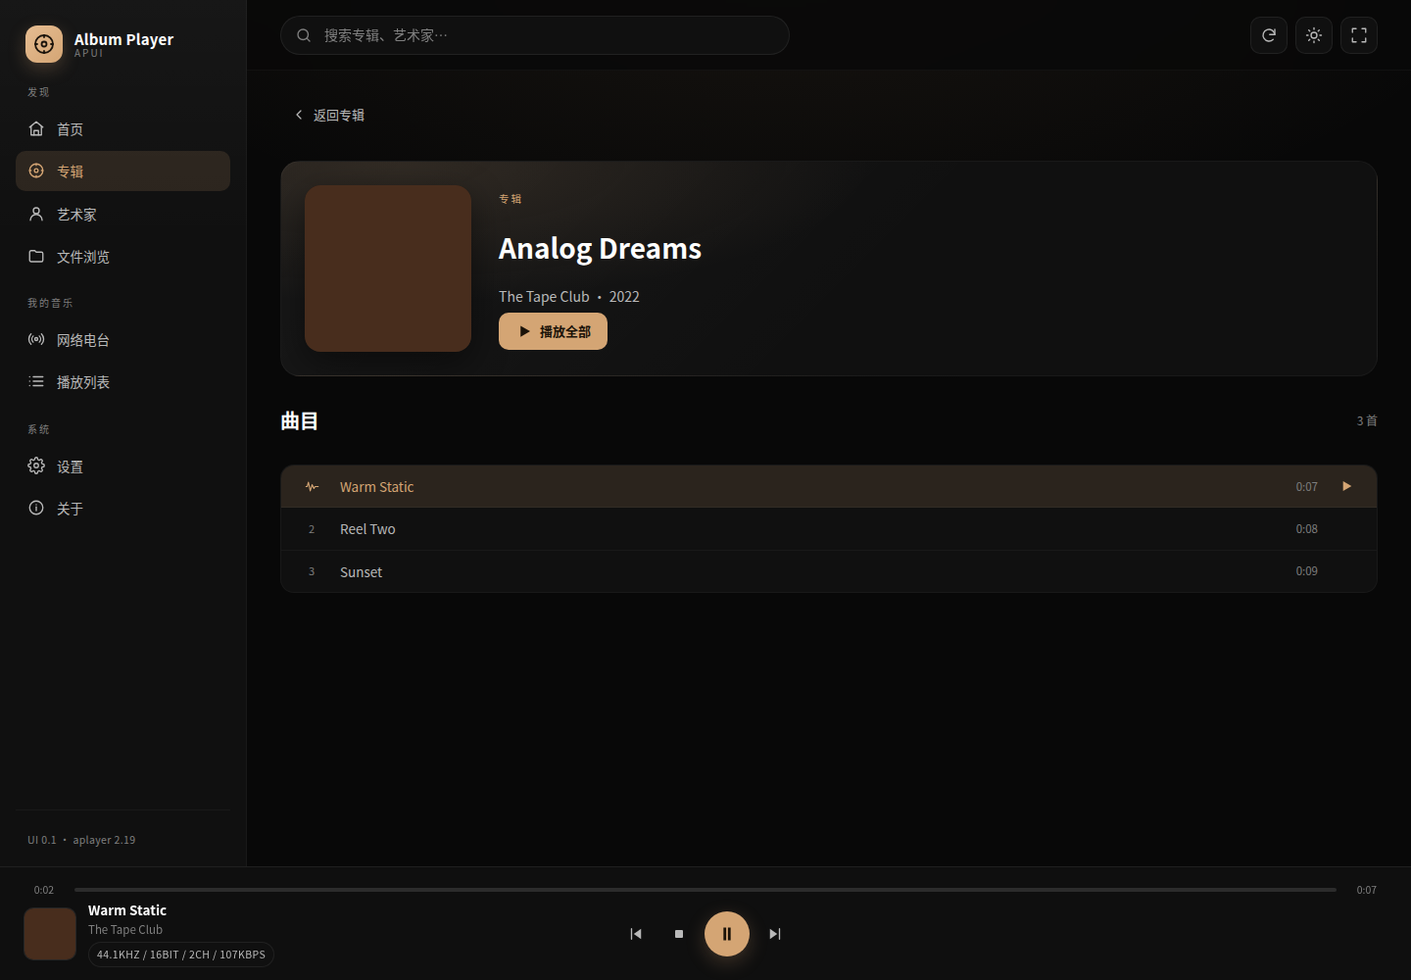
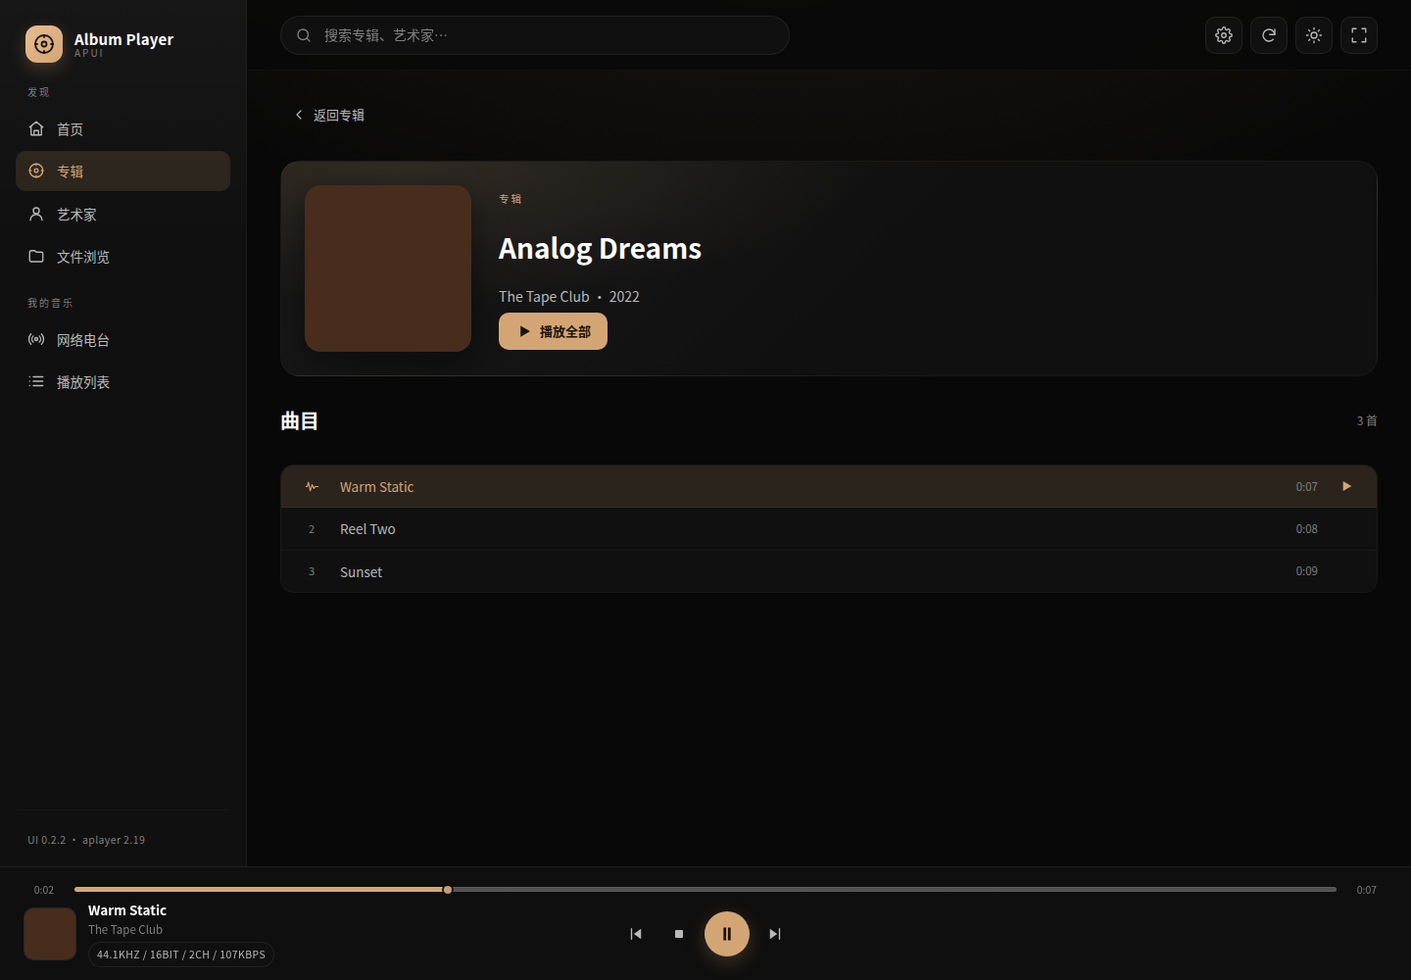
Release 0.2.3: single save action row and visible playback progress

diff --git a/web/src/views/settings.ts b/web/src/views/settings.ts
@@ -350,11 +350,7 @@ export function renderSettings(view: HTMLElement, s: AppState): void {
   const header = el('div', { class: 'page-header settings-header' }, [
     el('div', {}, [
       el('h1', { text: '设置' }),
-      el('p', { class: 'subtitle', text: 'Album Player 设置 · 修改会写入 aplayer 配置；保存前做完整合并与校验' }),
-    ]),
-    el('div', { class: 'page-actions' }, [
-      el('button', { class: 'btn-secondary', type: 'button', onclick: () => store.exportConfig() }, [svgIcon('external', 16), el('span', { text: '导出配置' })]),
-      el('button', { class: 'btn-secondary', type: 'button', onclick: () => triggerImport() }, [svgIcon('folder', 16), el('span', { text: '导入配置' })]),
+      el('p', { class: 'subtitle', text: 'Album Player 设置 · 保存/导入/导出均作用于完整配置（全部可写字段），不是当前分页' }),
     ]),
   ]);
   body.append(header);
@@ -364,13 +360,21 @@ export function renderSettings(view: HTMLElement, s: AppState): void {
     if (Object.keys(patch).length) void store.saveSettings(patch);
   };
 
+  const actions = (canSave: boolean): HTMLElement => el('div', { class: 'settings-actions' }, [
+    el('span', { class: 'settings-action-note', text: '完整配置操作：导入/导出/保存覆盖全部分页的可写字段。' }),
+    el('div', { class: 'button-row' }, [
+      el('button', { class: 'btn-secondary', type: 'button', title: '导出完整配置（全部分页）', onclick: () => store.exportConfig() }, [svgIcon('external', 16), el('span', { text: '导出配置' })]),
+      el('button', { class: 'btn-secondary', type: 'button', title: '导入完整配置（全部分页）', onclick: () => triggerImport() }, [svgIcon('folder', 16), el('span', { text: '导入配置' })]),
+      canSave ? el('button', { class: 'btn-primary', type: 'button', onclick: save }, [svgIcon('check', 18), el('span', { text: '保存设置' })]) : '',
+    ]),
+  ]);
+
   if (activeTab === 'status') {
-    body.append(renderStatus(config, s));
+    body.append(renderStatus(config, s), actions(false));
   } else if (activeTab === 'about') {
-    body.append(renderAbout(config));
+    body.append(renderAbout(config), actions(false));
   } else if (activeTab === 'card') {
-    body.append(renderCard(config, controls, save));
-    header.querySelector('.page-actions')?.append(el('button', { class: 'btn-primary', type: 'button', onclick: save }, [svgIcon('check', 16), el('span', { text: '保存' })]));
+    body.append(renderCard(config, controls), actions(true));
   } else {
     const subs = SUB_TABS[activeTab];
     if (subs) {
@@ -399,9 +403,7 @@ export function renderSettings(view: HTMLElement, s: AppState): void {
       body.append(renderConvolverInfo(config));
     }
 
-    const saveBtn = el('button', { class: 'btn-primary save-btn', type: 'button', onclick: save }, [svgIcon('check', 18), el('span', { text: '保存设置' })]);
-    header.querySelector('.page-actions')?.append(el('button', { class: 'btn-primary', type: 'button', onclick: save }, [svgIcon('check', 16), el('span', { text: '保存' })]));
-    body.append(el('div', { class: 'save-bar' }, [saveBtn]));
+    body.append(actions(true));
   }
 
   const importInput = el('input', { type: 'file', accept: '.json,application/json', class: 'hidden' }) as HTMLInputElement;
@@ -484,14 +486,13 @@ function renderStatus(config: Config, s: AppState): HTMLElement {
   ]);
 }
 
-function renderCard(config: Config, controls: Map<string, FieldControl>, save: () => void): HTMLElement {
+function renderCard(config: Config, controls: Map<string, FieldControl>): HTMLElement {
   const asound = Array.isArray(config.asound) ? config.asound.map(String) : [];
   const cards = Array.isArray(config.cards) ? config.cards.map(String) : [];
   const options = cardsOptions(config);
   const cardSelect = select(options[0]?.value || '0', options.length ? options : [{ value: '0', label: '未检测到声卡' }]);
   cardSelect.disabled = !options.length;
   const form = renderFieldGroups('card', null, config, controls);
-  const saveBtn = el('button', { class: 'btn-primary save-btn', type: 'button', onclick: save }, [svgIcon('check', 18), el('span', { text: '保存设置' })]);
   return el('div', { class: 'settings-card-body' }, [
     el('section', { class: 'settings-section' }, [
       el('h3', { text: '声卡' }),
@@ -508,7 +509,6 @@ function renderCard(config: Config, controls: Map<string, FieldControl>, save: (
       ]),
     ]),
     form,
-    el('div', { class: 'save-bar' }, [saveBtn]),
   ]);
 }
 

diff --git a/web/src/styles.css b/web/src/styles.css
@@ -250,11 +250,11 @@ button:disabled { cursor: not-allowed; opacity: .42; }
 .player-progress { display: grid; grid-template-columns: 42px 1fr 42px; align-items: center; gap: 10px; height: 20px; }
 .player-progress .time { color: var(--text-tertiary); font-size: 10.5px; font-variant-numeric: tabular-nums; text-align: center; }
 .seek { width: 100%; height: 20px; margin: 0; appearance: none; background: transparent; cursor: pointer; }
-.seek::-webkit-slider-runnable-track { height: 4px; border-radius: 99px; background: linear-gradient(90deg, var(--accent) var(--seek, 0%), rgba(255,255,255,.12) var(--seek, 0%)); }
-.seek::-moz-range-track { height: 4px; border-radius: 99px; background: rgba(255,255,255,.12); }
-.seek::-moz-range-progress { height: 4px; border-radius: 99px; background: var(--accent); }
-.seek::-webkit-slider-thumb { appearance: none; width: 12px; height: 12px; margin-top: -4px; border-radius: 50%; background: var(--accent); border: 2px solid var(--bg-secondary); opacity: 0; transition: opacity var(--transition); }
-.seek:hover::-webkit-slider-thumb, .seek:focus-visible::-webkit-slider-thumb { opacity: 1; }
+.seek::-webkit-slider-runnable-track { height: 5px; border-radius: 99px; background: linear-gradient(90deg, var(--accent) 0%, var(--accent) var(--seek, 0%), rgba(255,255,255,.28) var(--seek, 0%), rgba(255,255,255,.28) 100%); box-shadow: inset 0 0 0 1px rgba(255,255,255,.06); }
+.seek::-moz-range-track { height: 5px; border-radius: 99px; background: rgba(255,255,255,.28); }
+.seek::-moz-range-progress { height: 5px; border-radius: 99px; background: var(--accent); }
+.seek::-webkit-slider-thumb { appearance: none; width: 12px; height: 12px; margin-top: -3.5px; border-radius: 50%; background: var(--accent); border: 2px solid var(--bg-secondary); opacity: .9; transition: opacity var(--transition), transform var(--transition); }
+.seek:hover::-webkit-slider-thumb, .seek:focus-visible::-webkit-slider-thumb { opacity: 1; transform: scale(1.1); }
 .seek::-moz-range-thumb { width: 12px; height: 12px; border-radius: 50%; background: var(--accent); border: 2px solid var(--bg-secondary); }
 .seek:disabled { opacity: .3; cursor: default; }
 .player-main { display: grid; grid-template-columns: minmax(0, 1fr) auto minmax(0, 1fr); align-items: center; gap: 20px; }
@@ -296,7 +296,7 @@ button:disabled { cursor: not-allowed; opacity: .42; }
 .now-radio { margin: 0; color: rgba(255,255,255,.65); font-size: 13px; min-height: 1px; }
 .now-progress { display: grid; grid-template-columns: 42px 1fr 42px; gap: 10px; align-items: center; }
 .now-progress .time { color: rgba(255,255,255,.5); font-size: 11px; text-align: center; }
-.now-progress .seek::-webkit-slider-runnable-track { background: linear-gradient(90deg, var(--accent) var(--seek, 0%), rgba(255,255,255,.22) var(--seek, 0%)); }
+.now-progress .seek::-webkit-slider-runnable-track { background: linear-gradient(90deg, var(--accent) 0%, var(--accent) var(--seek, 0%), rgba(255,255,255,.34) var(--seek, 0%), rgba(255,255,255,.34) 100%); }
 .now-controls { display: flex; align-items: center; gap: 12px; }
 .now-controls .control-btn { color: rgba(255,255,255,.75); width: 44px; height: 44px; }
 .now-controls .control-btn:hover { background: rgba(255,255,255,.1); color: #fff; }
@@ -503,3 +503,15 @@ button:disabled { cursor: not-allowed; opacity: .42; }
 [data-theme="light"] .input:hover { background: #fff; border-color: rgba(0,0,0,.32); }
 [data-theme="light"] .input:focus { background: #fff; }
 [data-theme="light"] .settings-section { background: #fff; }
+
+.settings-actions {
+  display: flex; align-items: center; justify-content: space-between; gap: 18px;
+  margin-top: 4px; padding: 12px 2px 2px; border-top: 1px solid var(--border-soft);
+}
+.settings-action-note { color: var(--text-tertiary); font-size: 11.5px; line-height: 1.5; max-width: 470px; }
+.settings-actions .button-row { justify-content: flex-end; flex: 0 0 auto; }
+@media (max-width: 900px) {
+  .settings-actions { align-items: flex-start; flex-direction: column; }
+  .settings-actions .button-row { width: 100%; justify-content: flex-end; }
+  .settings-action-note { max-width: none; }
+}

diff --git a/web/src/ui/layout.ts b/web/src/ui/layout.ts
@@ -175,12 +175,14 @@ export function renderLayout(app: HTMLElement): LayoutRefs {
     value: '0',
     'aria-label': '播放进度',
   }) as HTMLInputElement;
+  seek.style.setProperty('--seek', '0%');
   const current = el('span', { class: 'time', text: '0:00' });
   const total = el('span', { class: 'time', text: '0:00' });
   seek.addEventListener('pointerdown', () => { dragging = true; });
   seek.addEventListener('input', () => {
     const p = store.get().player;
     const len = p?.PlayingLen || 0;
+    seek.style.setProperty('--seek', `${Number(seek.value)}%`);
     if (len > 0) current.textContent = formatDuration((Number(seek.value) / 100) * len);
   });
   seek.addEventListener('change', () => {
@@ -267,11 +269,13 @@ export function renderLayout(app: HTMLElement): LayoutRefs {
   const nowFormat = el('span', { class: 'badge', text: '' });
   const nowRadio = el('p', { class: 'now-radio', text: '' });
   const nowSeek = el('input', { class: 'seek', type: 'range', min: '0', max: '100', step: '0.1', value: '0', 'aria-label': '播放进度' }) as HTMLInputElement;
+  nowSeek.style.setProperty('--seek', '0%');
   const nowCurrent = el('span', { class: 'time', text: '0:00' });
   const nowTotal = el('span', { class: 'time', text: '0:00' });
   nowSeek.addEventListener('pointerdown', () => { nowDragging = true; });
   nowSeek.addEventListener('input', () => {
     const len = store.get().player?.PlayingLen || 0;
+    nowSeek.style.setProperty('--seek', `${Number(nowSeek.value)}%`);
     if (len > 0) nowCurrent.textContent = formatDuration((Number(nowSeek.value) / 100) * len);
   });
   nowSeek.addEventListener('change', () => { nowDragging = false; void store.seek(Number(nowSeek.value)); });
@@ -336,6 +340,12 @@ function setText(node: HTMLElement, text: string): void {
   if (node.textContent !== text) node.textContent = text;
 }
 
+function setSeek(input: HTMLInputElement, percent: number): void {
+  const value = Math.min(100, Math.max(0, percent));
+  input.value = String(value);
+  input.style.setProperty('--seek', `${value}%`);
+}
+
 export function updateLayout(refs: LayoutRefs, s: AppState): void {
   const route = s.route.name;
   for (const link of [...refs.navLinks, ...refs.mobileLinks]) {
@@ -393,9 +403,9 @@ export function updateLayout(refs: LayoutRefs, s: AppState): void {
   refs.player.stop.disabled = !playing && !paused;
   refs.player.seek.disabled = !p || !p.ProgressVisible || p.PlayingLen <= 0;
   if (!dragging && p && p.PlayingLen > 0 && p.ProgressVisible) {
-    refs.player.seek.value = String(Math.min(100, Math.max(0, (p.Position / p.PlayingLen) * 100)));
+    setSeek(refs.player.seek, (p.Position / p.PlayingLen) * 100);
   } else if (!p || p.PlayingLen <= 0) {
-    refs.player.seek.value = '0';
+    setSeek(refs.player.seek, 0);
   }
   setText(refs.player.current, p && p.ProgressVisible ? formatDuration(p.Position) : '0:00');
   setText(refs.player.total, p && p.ProgressVisible ? formatDuration(p.PlayingLen) : '0:00');
@@ -428,9 +438,9 @@ export function updateLayout(refs: LayoutRefs, s: AppState): void {
     refs.now.stop.disabled = !playing && !paused;
     refs.now.seek.disabled = !p || !p.ProgressVisible || p.PlayingLen <= 0;
     if (!nowDragging && p && p.PlayingLen > 0 && p.ProgressVisible) {
-      refs.now.seek.value = String(Math.min(100, Math.max(0, (p.Position / p.PlayingLen) * 100)));
+      setSeek(refs.now.seek, (p.Position / p.PlayingLen) * 100);
     } else if (!p || p.PlayingLen <= 0) {
-      refs.now.seek.value = '0';
+      setSeek(refs.now.seek, 0);
     }
     setText(refs.now.current, p && p.ProgressVisible ? formatDuration(p.Position) : '0:00');
     setText(refs.now.total, p && p.ProgressVisible ? formatDuration(p.PlayingLen) : '0:00');

diff --git a/docs/06-实施与验收记录.md b/docs/06-实施与验收记录.md
@@ -4,11 +4,11 @@
 
 | 项目 | 内容 |
 |---|---|
-| 版本 | APUI 0.2.2 |
+| 版本 | APUI 0.2.3 |
 | 日期 | 2026-10-29 |
 | 构建 | Vite 7.3.7 + TypeScript 5.9；单 JS/CSS |
-| 产物 | `release/apui-web-0.2.2.tar.gz`（44 KB） |
[1 lines of base64/hex data omitted]
+| 产物 | `release/apui-web-0.2.3.tar.gz`（44 KB） |
[1 lines of base64/hex data omitted]
 | 兼容 | Album Player for Linux 2.19（ARM64 / x86_64） |
 | 结论 | MVP 已实现并在 `.133` / `.230` / `.137` 部署；`.137` 实机真实播放通过 |
 
@@ -25,7 +25,7 @@
 - 艺术家：按 `AuthorList` 聚合、艺术家详情。
 - 网络电台：进入/退出电台模式、分类网格、电台列表、播放、收藏、添加/删除、`RadioTitle`/`GetPictures`。
 - 播放列表/文件浏览：`Drives` 树、展开/折叠、载入目录/列表、保存当前列表、删除 `aplayer.dat`、根目录过滤。
-- 设置：右上角齿轮入口；左侧无“系统”分栏；常规/解码器/DSP/系统/状态/声卡/关于，参数中文化；Decoder/DSP 子分页；原“关于”页合并进设置。
+- 设置：右上角齿轮入口；左侧无“系统/关于”；7 主分页 + Decoder/DSP 子分页；参数中文化；底部单一操作行（导出/导入/保存），导入导出覆盖完整配置。
 - 播放控制：播放/暂停/停止/上一首/下一首/进度（百分比）/音量（启用时显示）、1s 轮询、页面隐藏降频、离线退避。
 - 安全：所有 aplayer 字符串经 `htmlToText`/`textContent`；URL 协议白名单；不显示 `api_key`/`api_cx`；危险操作二次确认。
 - 构建：单 JS + 单 CSS；无 SVG/字体/WebP/`.mjs`/sourcemap；静态白名单检查；热替换安装/回滚脚本。
@@ -69,8 +69,8 @@
 │   ├── uninstall.sh
 │   └── dist/
 ├── release/
-│   ├── apui-web-0.2.2.tar.gz
-│   └── apui-web-0.2.2.tar.gz.sha256
+│   ├── apui-web-0.2.3.tar.gz
+│   └── apui-web-0.2.3.tar.gz.sha256
 ├── fixtures/aplayer/       # 从 .133 抓取的真实接口样本
 ├── docs/screenshots/       # 精选验收截图（脱敏）
 └── docs/                   # 本套文档
@@ -104,9 +104,9 @@ npm run package
 
 | 机器 | 角色 | APUI 状态 | aplayer 状态 | 最新备份（APUI 前） | 最早厂商 UI 备份 |
 |---|---|---|---|---|---|
-| `X86-BUILD-VM` | x86 构建/联调 | 已安装 `/opt/aplayer` | 已停止（测试后） | `/opt/aplayer-ui-backup-20261029-121645` | `/opt/aplayer-ui-backup-20261029-110247` |
-| `ARM-BUILD-HOST` | ARM 构建机 | 已安装 `/opt/aplayer` | 运行中（systemd enabled），7778 正在提供 APUI 0.2.2 | `/opt/aplayer-ui-backup-20261029-121628` | `/opt/aplayer-ui-backup-20261029-110732` |
-| `REAL-TEST-HOST` | Gentooplayer APUI 测试机 | 已安装 `/opt/aplayer` | 运行中，由现场测试项目使用；APUI 不停止/不重启 | `/opt/aplayer-ui-backup-20261029-121646` | 同上（含厂商 UI 备份） |
+| `X86-BUILD-VM` | x86 构建/联调 | 已安装 `/opt/aplayer` | 已停止（测试后） | `/opt/aplayer-ui-backup-20261029-122326` | `/opt/aplayer-ui-backup-20261029-110247` |
+| `ARM-BUILD-HOST` | ARM 构建机 | 已安装 `/opt/aplayer` | 运行中（systemd enabled），7778 正在提供 APUI 0.2.3 | `/opt/aplayer-ui-backup-20261029-122307` | `/opt/aplayer-ui-backup-20261029-110732` |
+| `REAL-TEST-HOST` | Gentooplayer APUI 测试机 | 已安装 `/opt/aplayer` | 运行中，由现场测试项目使用；APUI 不停止/不重启 | `/opt/aplayer-ui-backup-20261029-122326` | 同上（含厂商 UI 备份） |
 
 ### 3.1 `.133` 测试环境
 
@@ -118,7 +118,7 @@ npm run package
 ### 3.2 `.230`
 
 - APUI 热部署成功；7778 页面/JS/API 200；空库状态、设置、移动端正常。
-- 现场已将 `aplayer.service` 设为 enabled 并运行；当前 7778 提供 APUI 0.2.2（`ui/app-DdppiJpo.js`）。
+- 现场已将 `aplayer.service` 设为 enabled 并运行；当前 7778 提供 APUI 0.2.3（`ui/app-CpOkTeYR.js`）。
 
 ### 3.3 `.137`
 
@@ -131,7 +131,7 @@ npm run package
 
 ```bash
 # 在目标机执行；uninstall.sh 随安装包/部署目录提供
-sh /tmp/apui-web-0.2.2/uninstall.sh /opt/aplayer-ui-backup-20261029-121645 /opt/aplayer
+sh /tmp/apui-web-0.2.3/uninstall.sh /opt/aplayer-ui-backup-20261029-122326 /opt/aplayer
 ```
 
 - `.133` 已验证：恢复厂商 UI 后 `aplayer.html` md5 = `18f08f90b549b2646340d501a8761da0`；再装回 APUI md5 = `d9d6d61f334fd8f66cfab25f007c6637`。
@@ -151,7 +151,8 @@ sh /tmp/apui-web-0.2.2/uninstall.sh /opt/aplayer-ui-backup-20261029-121645 /opt/
 | 专辑详情/曲目 | `.133` dev | 通过 | [02-album.png](screenshots/album.png) |
 | 播放/暂停/播放条格式 | `.133` dev/生产 | 通过 | [playing.png](screenshots/playing.png) |
 | 全屏正在播放 | `.133` dev | 通过 | [04-now-playing.png](screenshots/now-playing.png) |
-| 设置页 7 主分页 / 中文标签 / 保存 | `.133` 生产 | 通过 | [settings.png](screenshots/settings.png) |
+| 设置页 7 主分页 / 中文标签 / 底部单一操作行 | `.133` 生产 | 通过 | [settings.png](screenshots/settings.png) |
+| 播放进度条轨道/填充/滑块 | `.133` 生产 | 通过 | [playing.png](screenshots/playing.png) |
 | 完整配置合并不重置 covers/root | `.133` 生产 | 通过 | 同上 |
 | Decoder/DSP 子分页与参数补齐 | `.133` 生产 | 通过 | [settings-tabs.png](screenshots/settings-tabs.png)、[settings-resampler.png](screenshots/settings-resampler.png) |
 | 搜索过滤 | `.133` 生产 | 通过：Blue=1、Analog=0 | [p02-search.png](screenshots/search.png) |
@@ -286,7 +287,8 @@ init()
 
 | 版本 | 日期 | 变更 |
 |---|---|---|
-| 0.2.2 | 2026-10-29 | 设置页收窄居中、行距压缩、字体加粗、输入框可见性提升；三机部署 |
+| 0.2.3 | 2026-10-29 | 底部操作合并一行、整包导入导出说明、播放进度条可见性修复；三机部署 |
+| 0.2.2 | 2026-10-29 | 设置页收窄居中、行距压缩、字体加粗、输入框可见性提升 |
 | 0.2.1 | 2026-10-29 | 左侧移除系统分栏；右上角设置入口；关于合并进设置；设置参数中文化；三机部署 |
 | 0.2.0 | 2026-10-29 | 设置页按官方 7 主分页 + Decoder/DSP 子分页重构；补齐参数；三机部署；`.137` 实机播放通过 |
 | 0.1.0 | 2026-10-29 | 首个可部署 MVP：应用壳/专辑/播放/电台/列表/设置/文件浏览/移动端 |

diff --git a/README.md b/README.md
@@ -2,10 +2,10 @@
 
 GitHub: <https://github.com/harmonyosnews/album-player-ui>
 
-**APUI 0.2.2 已实现并部署。** 这是一个与 aplayer 同源的静态 SPA，替换 `/opt/aplayer/aplayer.html` 后由 aplayer 在 **7778** 端口提供；不新增服务/端口，不改音频引擎。
+**APUI 0.2.3 已实现并部署。** 这是一个与 aplayer 同源的静态 SPA，替换 `/opt/aplayer/aplayer.html` 后由 aplayer 在 **7778** 端口提供；不新增服务/端口，不改音频引擎。
 
-- 构建：Vite 7 + TypeScript；JS 65.4 KB（gzip 20.8 KB）、CSS 28.9 KB（gzip 6.4 KB）。
[1 lines of base64/hex data omitted]
+- 构建：Vite 7 + TypeScript；JS 65.4 KB（gzip 20.8 KB）、CSS 29.6 KB（gzip 6.4 KB）。
[1 lines of base64/hex data omitted]
 - 已验证：`.133`（x86 构建/联调）、`.230`（ARM 冒烟）、`.137`（Gentooplayer 实机真实 FLAC 44.1/16/2 播放）。
 - 验收记录：[docs/06-实施与验收记录.md](docs/06-实施与验收记录.md)。
 
@@ -18,7 +18,7 @@ GitHub: <https://github.com/harmonyosnews/album-player-ui>
 - 左侧导航仅保留“发现/我的音乐”；设置入口在右上角齿轮；独立“关于”页已合并到设置 About。
 - 网络电台：分类、电台、收藏、添加/删除。
 - 播放列表/文件浏览：目录展开/折叠、载入、保存当前列表。
-- 设置：左侧导航已移除“系统”分栏；右上角齿轮进入设置；7 个主分页（常规/解码器/DSP/系统/状态/声卡/关于）+ Decoder/DSP 子分页；参数已中文化；原“关于”页合并进设置。
+- 设置：右上角齿轮进入；左侧无“系统/关于”；7 个主分页 + Decoder/DSP 子分页；参数中文化；底部单一操作行（导出/导入/保存），导入导出为完整配置。
 - 离线提示、轮询退避、XSS 消毒、危险操作确认。
 
 **不做**：队列、历史、歌词、标签、智能推荐、多房间、UPnP 7779（aplayer 无对应接口或超范围）。
@@ -66,14 +66,14 @@ cd web
 npm ci
 npm run build
 npm run check
-npm run package                     # 生成 release/apui-web-0.2.2.tar.gz
+npm run package                     # 生成 release/apui-web-0.2.3.tar.gz
 ```
 
 ### 安装（热替换，无需重启 aplayer）
 
 ```bash
-tar -xzf apui-web-0.2.2.tar.gz
-cd apui-web-0.2.2
+tar -xzf apui-web-0.2.3.tar.gz
+cd apui-web-0.2.3
 ./install.sh /opt/aplayer
 # 浏览器打开 http://<player>:7778/
 ```

diff --git a/docs/03-开发手册.md b/docs/03-开发手册.md
@@ -173,7 +173,7 @@ mock 的行为要与 [04-程序接口文档.md](04-程序接口文档.md) 的契
 
 代码已落地在 `web/`，并已在三台机器部署验证：
 
-- 构建：Vite 7.3.7 + TypeScript；`dist/ui/app-*.js` 约 **65.4 KB（gzip 20.8 KB）**，CSS 约 **28.9 KB（gzip 6.4 KB）**。
+- 构建：Vite 7.3.7 + TypeScript；`dist/ui/app-*.js` 约 **65.4 KB（gzip 20.8 KB）**，CSS 约 **29.6 KB（gzip 6.4 KB）**。
 - 已实现：应用壳/侧栏/顶栏/播放条/全屏播放、专辑/曲目/艺术家、搜索、网络电台（分类/电台/收藏/添加/删除）、播放列表与文件浏览（展开/折叠/载入）、设置（右上角入口；左侧无“系统”；常规/解码器/DSP/系统/状态/声卡/关于，参数中文化；关于合并进设置）、配置导出/导入、离线提示、移动端底部导航。
 - 自动载入：`GetAlbums` 为空且 `root_folder` 非空时，UI 调 `GetPlaylists(-1)` 找根目录索引 → `GetPlaylist(index)` → 重新 `GetAlbums`。
 - 关键 API 修正：`GetAlbums.Songs` 只含**当前专辑**；`GetSongs` 返回 `SongsLen`（ms）；`GetPlaylists&ind` 是展开/折叠**切换**；`GetAlbums` 是当前播放列表视图。

diff --git a/docs/01-实施方案.md b/docs/01-实施方案.md
@@ -7,7 +7,7 @@
 | 关联文档 | [00-可行性分析.md](00-可行性分析.md)、[02-项目书.md](02-项目书.md)、[03-开发手册.md](03-开发手册.md)、[04-程序接口文档.md](04-程序接口文档.md) |
 | 方案基线 | Album Player for Linux 2.19；TinyLMS 1.3.4 设计参考 |
 | 推荐方案 | **A：原位静态 UI 替换（MVP）**；B：伴生 Go 适配服务（二期可选） |
-| 实施状态 | Phase 0–2、构建/部署与首轮验收已完成（0.2.2）；DSD/部分 GUI 增删项待补，见 [06-实施与验收记录.md](06-实施与验收记录.md) |
+| 实施状态 | Phase 0–2、构建/部署与首轮验收已完成（0.2.3）；DSD/部分 GUI 增删项待补，见 [06-实施与验收记录.md](06-实施与验收记录.md) |
 
 ---
 

diff --git a/docs/00-可行性分析.md b/docs/00-可行性分析.md
@@ -8,7 +8,7 @@
 | 对象版本 | Album Player for Linux 2.19；TinyLMS 1.3.4 |
 | 结论 | **可行（有条件）**：建议采用“原位静态 UI 替换”方案先做 MVP；伴生适配服务作为二期增强 |
 | 证据 | 本文引用编号 E1–E13，详见 [05-实测证据与复现.md](05-实测证据与复现.md) |
-| 实施状态 | **MVP 0.2.2 已实现并部署**；实施/验收见 [06-实施与验收记录.md](06-实施与验收记录.md) |
+| 实施状态 | **MVP 0.2.3 已实现并部署**；实施/验收见 [06-实施与验收记录.md](06-实施与验收记录.md) |
 
 ---
 

diff --git a/docs/02-项目书.md b/docs/02-项目书.md
@@ -11,7 +11,7 @@
 | 预算等级 | 内部人力项目；无软件许可采购 |
 | 建议周期 | 8 周（含 1 周缓冲） |
 | 立项结论 | 建议立项，按“原位静态 UI 替换”MVP 推进 |
-| 实施状态 | MVP 0.2.2 已实现并部署；见 [06-实施与验收记录.md](06-实施与验收记录.md) |
+| 实施状态 | MVP 0.2.3 已实现并部署；见 [06-实施与验收记录.md](06-实施与验收记录.md) |
 
 ---
 
